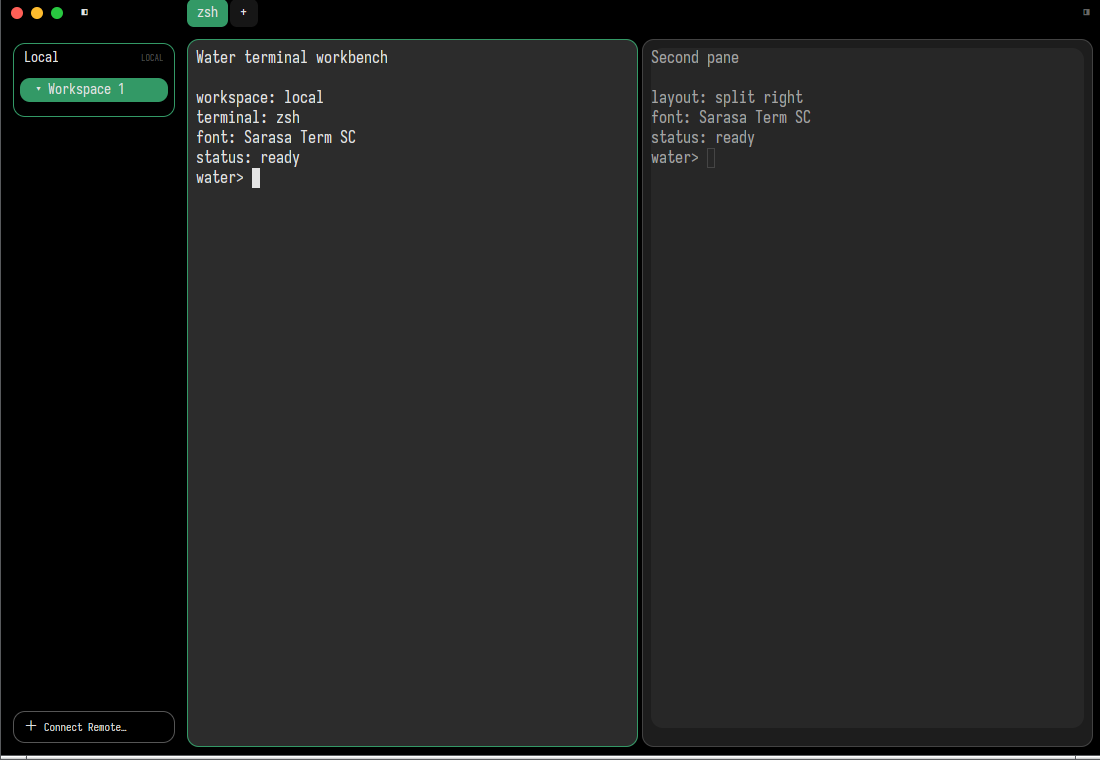
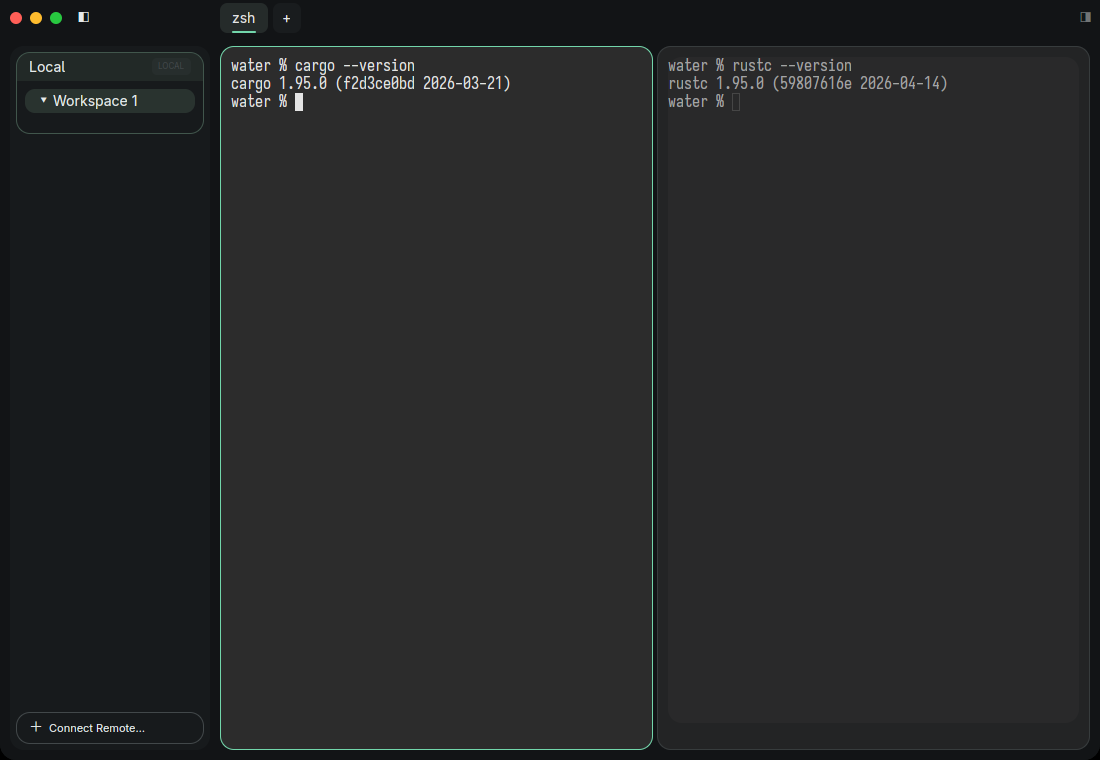
Refresh default UI and terminal typography

Changed region(s): [[0.0, 0.0, 1.0, 1.0], [0.0, 0.0, 0.0927, 0.0303], [0.9891, 0.0, 1.0, 0.0303]]

diff --git a/src/config.rs b/src/config.rs
@@ -15,7 +15,7 @@ use crate::terminal::{
     default_shell_program,
 };
 
-const DEFAULT_FONT_FAMILY: &str = "Sarasa Term SC Nerd Font";
+const DEFAULT_FONT_FAMILY: &str = "Sarasa Term SC";
 const DEFAULT_FONT_SIZE: f32 = 16.0;
 const DEFAULT_LINE_HEIGHT: f32 = 18.0;
 
@@ -23,47 +23,47 @@ pub const DEFAULT_WINDOW_WIDTH: f32 = 1100.0;
 pub const DEFAULT_WINDOW_HEIGHT: f32 = 760.0;
 pub const DEFAULT_WINDOW_MIN_WIDTH: f32 = 400.0;
 pub const DEFAULT_WINDOW_MIN_HEIGHT: f32 = 260.0;
-pub const DEFAULT_SIDEBAR_WIDTH: f32 = 170.0;
+pub const DEFAULT_SIDEBAR_WIDTH: f32 = 200.0;
 pub const DEFAULT_SIDEBAR_MIN_WIDTH: f32 = 170.0;
 pub const DEFAULT_SIDEBAR_MAX_WIDTH: f32 = 420.0;
 pub const DEFAULT_SIDEBAR_RESIZE_HANDLE_WIDTH: f32 = 6.0;
 pub const DEFAULT_TITLEBAR_HEIGHT: f32 = 36.0;
-pub const DEFAULT_TAB_HEIGHT: f32 = 28.0;
+pub const DEFAULT_TAB_HEIGHT: f32 = 30.0;
 pub const DEFAULT_SIDEBAR_HEADER_HEIGHT: f32 = 24.0;
-pub const DEFAULT_PANE_MARGIN: f32 = 4.0;
+pub const DEFAULT_PANE_MARGIN: f32 = 5.0;
 /// Inset around the sidebar and terminal surface group inside the window.
 /// This keeps the surfaces floating even when pane-to-pane margin is zero.
-pub const DEFAULT_WINDOW_PADDING: f32 = 8.0;
+pub const DEFAULT_WINDOW_PADDING: f32 = 10.0;
 /// Vertical margin around the independent floating sidebar surface.
 pub const DEFAULT_SIDEBAR_SURFACE_MARGIN: f32 = 0.0;
-pub const DEFAULT_PANE_PADDING: f32 = 8.0;
-pub const DEFAULT_PANE_CORNER_RADIUS: f32 = 12.0;
+pub const DEFAULT_PANE_PADDING: f32 = 10.0;
+pub const DEFAULT_PANE_CORNER_RADIUS: f32 = 14.0;
 pub const DEFAULT_PANE_DIVIDER_WIDTH: f32 = 2.0;
-pub const DEFAULT_SIDEBAR_MARGIN: f32 = 4.0;
-pub const DEFAULT_SIDEBAR_CARD_GAP: f32 = 6.0;
-pub const DEFAULT_SIDEBAR_CARD_PADDING: f32 = 6.0;
-pub const DEFAULT_SIDEBAR_ROW_PADDING: f32 = 10.0;
+pub const DEFAULT_SIDEBAR_MARGIN: f32 = 6.0;
+pub const DEFAULT_SIDEBAR_CARD_GAP: f32 = 8.0;
+pub const DEFAULT_SIDEBAR_CARD_PADDING: f32 = 8.0;
+pub const DEFAULT_SIDEBAR_ROW_PADDING: f32 = 12.0;
 /// Left padding inside workspace rows (the right side keeps `sidebar_row_padding`).
 pub const DEFAULT_SIDEBAR_WORKSPACE_ROW_PADDING: f32 = 10.0;
 /// Left padding inside agent rows (the right side keeps `sidebar_row_padding`).
 pub const DEFAULT_SIDEBAR_AGENT_ROW_PADDING: f32 = 10.0;
-pub const DEFAULT_SIDEBAR_AGENT_ROW_GAP: f32 = 1.0;
-pub const DEFAULT_SIDEBAR_AGENT_PADDING: f32 = 4.0;
+pub const DEFAULT_SIDEBAR_AGENT_ROW_GAP: f32 = 3.0;
+pub const DEFAULT_SIDEBAR_AGENT_PADDING: f32 = 6.0;
 pub const DEFAULT_SIDEBAR_AGENT_ROW_HEIGHT: f32 = 28.0;
 pub const DEFAULT_SIDEBAR_HOST_HEADER_HEIGHT: f32 = 28.0;
 /// Gap between the host title and the first workspace row inside the host card
 /// (the card gap is not used there).
-pub const DEFAULT_SIDEBAR_HOST_WORKSPACE_GAP: f32 = 6.0;
+pub const DEFAULT_SIDEBAR_HOST_WORKSPACE_GAP: f32 = 8.0;
 pub const DEFAULT_SIDEBAR_AGENT_ROW_WIDTH: f32 = 0.8;
-pub const DEFAULT_SIDEBAR_WORKSPACE_GAP: f32 = 2.0;
+pub const DEFAULT_SIDEBAR_WORKSPACE_GAP: f32 = 4.0;
 pub const DEFAULT_TITLEBAR_PADDING: f32 = 10.0;
 pub const DEFAULT_TITLEBAR_GAP: f32 = 8.0;
-pub const DEFAULT_TAB_GAP: f32 = 2.0;
-pub const DEFAULT_TAB_PADDING: f32 = 10.0;
+pub const DEFAULT_TAB_GAP: f32 = 5.0;
+pub const DEFAULT_TAB_PADDING: f32 = 12.0;
 /// Window corner radius applied to the client-side window shape.
-pub const DEFAULT_WINDOW_CORNER_RADIUS: f32 = 12.0;
+pub const DEFAULT_WINDOW_CORNER_RADIUS: f32 = 16.0;
 /// Sidebar card radius; defaults to following the window corner radius.
-pub const DEFAULT_SIDEBAR_CARD_RADIUS: f32 = 12.0;
+pub const DEFAULT_SIDEBAR_CARD_RADIUS: f32 = 14.0;
 /// Workspace card radius inside the sidebar.
 pub const DEFAULT_SIDEBAR_WORKSPACE_RADIUS: f32 = 10.0;
 pub const DEFAULT_UI_FONT_SIZE: f32 = 14.0;
@@ -865,8 +865,8 @@ pub struct ThemeConfig {
     pub agent_colors: BTreeMap<String, String>,
 }
 
-/// Water owns these built-in defaults; they mirror the dark Kitty palette
-/// without reading Kitty configuration at runtime.
+/// Water owns these built-in defaults; terminal colors follow the dark Kitty
+/// palette while the chrome uses layered graphite surfaces and a soft jade accent.
 impl Default for ThemeConfig {
     fn default() -> Self {
         Self {
@@ -879,26 +879,26 @@ impl Default for ThemeConfig {
             inverse_foreground: "#2c2c2c".to_owned(),
             inverse_background: "#e4e4e4".to_owned(),
             pane_background: "#2c2c2c".to_owned(),
-            active_pane_border: "#339966".to_owned(),
-            inactive_pane_border: "#555555".to_owned(),
-            accent: "#339966".to_owned(),
-            accent_foreground: "#000000".to_owned(),
-            chrome_background: "#000000".to_owned(),
-            tab_active_background: "#339966".to_owned(),
-            tab_inactive_background: "#161616".to_owned(),
-            tab_add_background: "#555555".to_owned(),
-            ui_foreground: "#e4e4e4".to_owned(),
-            sidebar_background: "#000000".to_owned(),
-            sidebar_connection_background: "#000000".to_owned(),
-            sidebar_connection_active_background: "#000000".to_owned(),
-            sidebar_connection_active_border: "#339966".to_owned(),
-            sidebar_connection_offline_color: "#ff5555".to_owned(),
-            sidebar_connection_offline_border: "#ff5555".to_owned(),
-            sidebar_workspace_background: "#000000".to_owned(),
-            sidebar_agent_background: "#000000".to_owned(),
-            sidebar_workspace_active_background: "#339966".to_owned(),
-            sidebar_agent_active_background: "#339966".to_owned(),
-            sidebar_drag_indicator_color: "#339966".to_owned(),
+            active_pane_border: "#72d6ab".to_owned(),
+            inactive_pane_border: "#42484a".to_owned(),
+            accent: "#72d6ab".to_owned(),
+            accent_foreground: "#111714".to_owned(),
+            chrome_background: "#121416".to_owned(),
+            tab_active_background: "#252b2a".to_owned(),
+            tab_inactive_background: "#191c1e".to_owned(),
+            tab_add_background: "#2b3032".to_owned(),
+            ui_foreground: "#e6eaea".to_owned(),
+            sidebar_background: "#171a1c".to_owned(),
+            sidebar_connection_background: "#202427".to_owned(),
+            sidebar_connection_active_background: "#222927".to_owned(),
+            sidebar_connection_active_border: "#41564c".to_owned(),
+            sidebar_connection_offline_color: "#ef7d83".to_owned(),
+            sidebar_connection_offline_border: "#70444a".to_owned(),
+            sidebar_workspace_background: "#1d2124".to_owned(),
+            sidebar_agent_background: "#1a1e20".to_owned(),
+            sidebar_workspace_active_background: "#29332f".to_owned(),
+            sidebar_agent_active_background: "#252f2b".to_owned(),
+            sidebar_drag_indicator_color: "#72d6ab".to_owned(),
             agent_colors: default_agent_colors(),
         }
     }
@@ -970,47 +970,47 @@ impl ThemeConfig {
             inverse_foreground: parse_color(&self.inverse_foreground, 0x2c2c2c),
             inverse_background: parse_color(&self.inverse_background, 0xe4e4e4),
             pane_background: parse_color(&self.pane_background, 0x2c2c2c),
-            active_pane_border: parse_color(&self.active_pane_border, 0x339966),
-            inactive_pane_border: parse_color(&self.inactive_pane_border, 0x555555),
-            accent: parse_color(&self.accent, 0x339966),
-            accent_foreground: parse_color(&self.accent_foreground, 0x000000),
-            chrome_background: parse_color(&self.chrome_background, 0x000000),
-            tab_active_background: parse_color(&self.tab_active_background, 0x339966),
-            tab_inactive_background: parse_color(&self.tab_inactive_background, 0x161616),
-            tab_add_background: parse_color(&self.tab_add_background, 0x555555),
-            ui_foreground: parse_color(&self.ui_foreground, 0xe4e4e4),
-            sidebar_background: parse_color(&self.sidebar_background, 0x000000),
+            active_pane_border: parse_color(&self.active_pane_border, 0x72d6ab),
+            inactive_pane_border: parse_color(&self.inactive_pane_border, 0x42484a),
+            accent: parse_color(&self.accent, 0x72d6ab),
+            accent_foreground: parse_color(&self.accent_foreground, 0x111714),
+            chrome_background: parse_color(&self.chrome_background, 0x121416),
+            tab_active_background: parse_color(&self.tab_active_background, 0x252b2a),
+            tab_inactive_background: parse_color(&self.tab_inactive_background, 0x191c1e),
+            tab_add_background: parse_color(&self.tab_add_background, 0x2b3032),
+            ui_foreground: parse_color(&self.ui_foreground, 0xe6eaea),
+            sidebar_background: parse_color(&self.sidebar_background, 0x171a1c),
             sidebar_connection_background: parse_color(
                 &self.sidebar_connection_background,
-                0x000000,
+                0x202427,
             ),
             sidebar_connection_active_background: parse_color(
                 &self.sidebar_connection_active_background,
-                0x000000,
+                0x222927,
             ),
             sidebar_connection_active_border: parse_color(
                 &self.sidebar_connection_active_border,
-                0x339966,
+                0x41564c,
             ),
             sidebar_connection_offline: parse_color(
                 &self.sidebar_connection_offline_color,
-                0xff5555,
+                0xef7d83,
             ),
             sidebar_connection_offline_border: parse_color(
                 &self.sidebar_connection_offline_border,
-                0xff5555,
+                0x70444a,
             ),
-            sidebar_workspace_background: parse_color(&self.sidebar_workspace_background, 0x000000),
-            sidebar_agent_background: parse_color(&self.sidebar_agent_background, 0x000000),
+            sidebar_workspace_background: parse_color(&self.sidebar_workspace_background, 0x1d2124),
+            sidebar_agent_background: parse_color(&self.sidebar_agent_background, 0x1a1e20),
             sidebar_workspace_active_background: parse_color(
                 &self.sidebar_workspace_active_background,
-                0x339966,
+                0x29332f,
             ),
             sidebar_agent_active_background: parse_color(
                 &self.sidebar_agent_active_background,
-                0x339966,
+                0x252f2b,
             ),
-            sidebar_drag_indicator: parse_color(&self.sidebar_drag_indicator_color, 0x339966),
+            sidebar_drag_indicator: parse_color(&self.sidebar_drag_indicator_color, 0x72d6ab),
             agent_colors,
         }
     }
@@ -1588,6 +1588,7 @@ mod tests {
     #[test]
     fn missing_config_uses_defaults_and_invalid_colors_fall_back() {
         let config = AppConfig::default();
+        assert_eq!(config.terminal.font_family, DEFAULT_FONT_FAMILY);
         assert_eq!(config.terminal.scrollback_lines, DEFAULT_SCROLLBACK_LINES);
         assert_eq!(
             config.terminal.inactive_scrollback_lines,
@@ -1599,37 +1600,37 @@ mod tests {
         );
         assert_eq!(config.theme.colors().terminal_background, 0x2c2c2c);
         assert_eq!(config.theme.colors().terminal_foreground, 0xe4e4e4);
-        assert_eq!(config.theme.colors().active_pane_border, 0x339966);
-        assert_eq!(config.theme.colors().tab_active_background, 0x339966);
-        assert_eq!(config.theme.colors().sidebar_background, 0x000000);
+        assert_eq!(config.theme.colors().active_pane_border, 0x72d6ab);
+        assert_eq!(config.theme.colors().tab_active_background, 0x252b2a);
+        assert_eq!(config.theme.colors().sidebar_background, 0x171a1c);
         assert_eq!(
             config.theme.colors().sidebar_connection_background,
-            0x000000
+            0x202427
         );
         assert_eq!(
             config.theme.colors().sidebar_connection_active_background,
-            0x000000
+            0x222927
         );
         assert_eq!(
             config.theme.colors().sidebar_connection_active_border,
-            0x339966
+            0x41564c
         );
-        assert_eq!(config.theme.colors().sidebar_connection_offline, 0xff5555);
+        assert_eq!(config.theme.colors().sidebar_connection_offline, 0xef7d83);
         assert_eq!(
             config.theme.colors().sidebar_connection_offline_border,
-            0xff5555
+            0x70444a
         );
-        assert_eq!(config.theme.colors().sidebar_workspace_background, 0x000000);
-        assert_eq!(config.theme.colors().sidebar_agent_background, 0x000000);
+        assert_eq!(config.theme.colors().sidebar_workspace_background, 0x1d2124);
+        assert_eq!(config.theme.colors().sidebar_agent_background, 0x1a1e20);
         assert_eq!(
             config.theme.colors().sidebar_workspace_active_background,
-            0x339966
+            0x29332f
         );
         assert_eq!(
             config.theme.colors().sidebar_agent_active_background,
-            0x339966
+            0x252f2b
         );
-        assert_eq!(config.theme.colors().sidebar_drag_indicator, 0x339966);
+        assert_eq!(config.theme.colors().sidebar_drag_indicator, 0x72d6ab);
         assert_eq!(
             config.theme.colors().agent_color(AgentKind::ClaudeCode),
             0xd97757

diff --git a/src/ui/workspace.rs b/src/ui/workspace.rs
@@ -4998,8 +4998,8 @@ impl WorkspaceView {
         cx: &mut Context<Self>,
     ) -> AnyElement {
         // Selected and unselected tabs deliberately share the same floating
-        // shape. Their configured fills provide the small contrast needed to
-        // identify the active tab without creating a bridge into the pane.
+        // shape. The active tab also gets a short accent rail so selection is
+        // easy to scan without relying on a saturated fill.
         let background = if active {
             theme.tab_active_background
         } else {
@@ -5012,10 +5012,23 @@ impl WorkspaceView {
             .items_center()
             .flex()
             .flex_none()
+            .relative()
             .cursor_pointer()
             .bg(rgb(background))
             .text_color(rgb(theme.terminal_foreground))
             .child(SharedString::from(title));
+        if active {
+            tab = tab.child(
+                div()
+                    .absolute()
+                    .bottom_0()
+                    .left(px(12.))
+                    .right(px(12.))
+                    .h(px(2.))
+                    .rounded(px(1.))
+                    .bg(rgb(theme.accent)),
+            );
+        }
         if self.context_menu.is_none() {
             tab = tab.hover(|style| style.bg(rgb(theme.tab_add_background)));
         }
@@ -5369,7 +5382,15 @@ impl WorkspaceView {
             .child(
                 div()
                     .flex_shrink_0()
-                    .text_size(px(9.))
+                    .px(px(6.))
+                    .py(px(2.))
+                    .rounded(px(5.))
+                    .bg(rgb(mix_rgb(
+                        connection_status_color,
+                        connection_background,
+                        0.16,
+                    )))
+                    .text_size(px(8.))
                     .text_color(rgb(connection_status_color))
                     .child(kind_label),
             )

diff --git a/README.md b/README.md
@@ -4,7 +4,7 @@ Water is a native Rust workbench for people who run local shells, remote build e
 
 ![Water terminal workspace](assets/screenshots/water-terminal-content.png)
 
-The UI is deliberately quiet: a connection sidebar on the left, tabs above the active surface, and a terminal that stays attached to the server session that owns it.
+The UI is deliberately quiet: a connection sidebar on the left, tabs above the active surface, and a terminal that stays attached to the server session that owns it. Terminals use Sarasa Term SC by default, with a graphite-and-jade theme across the workspace.
 
 ![Water split panes](assets/screenshots/water-split.png)
 
@@ -17,7 +17,7 @@ The UI is deliberately quiet: a connection sidebar on the left, tabs above the a
 
 ## Start here
 
-The packaged product targets macOS first. The repository also supports Linux development builds; the current product screenshots above were captured from the X11 GUI during this documentation update.
+The packaged product targets macOS first. The repository also supports Linux development builds; the screenshots above show the default workspace appearance.
 
 ```sh
 cargo run --bin water
